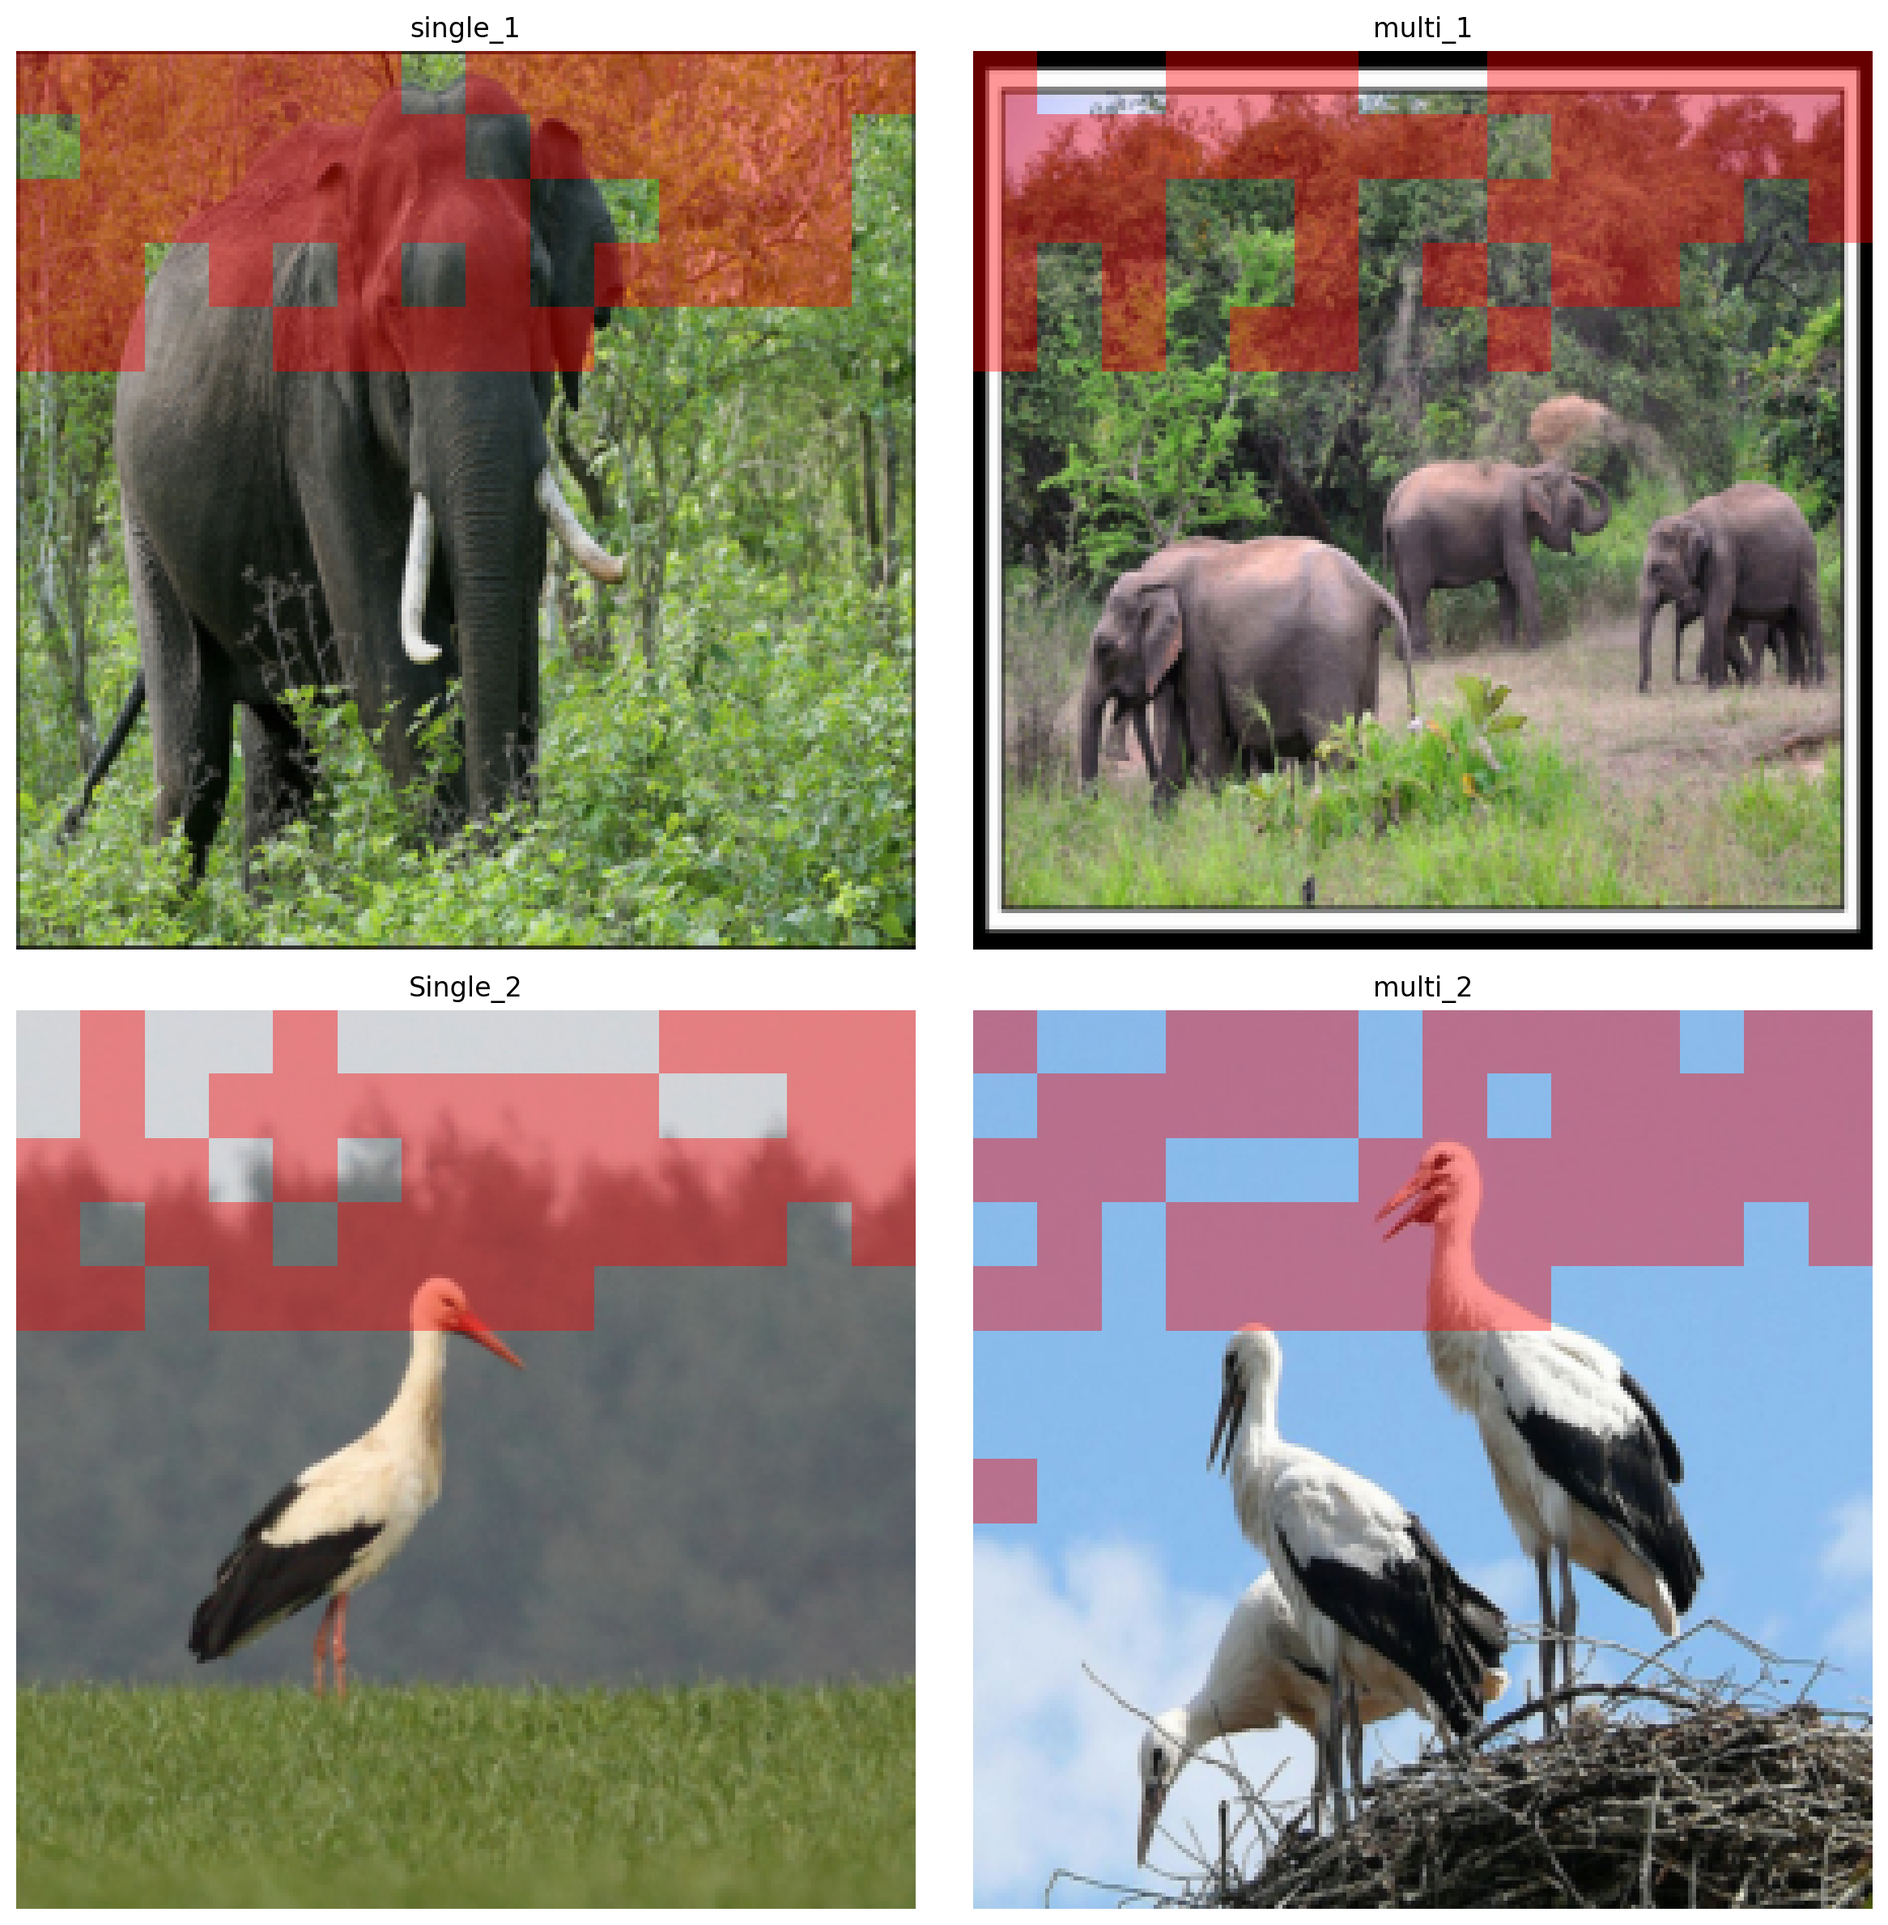
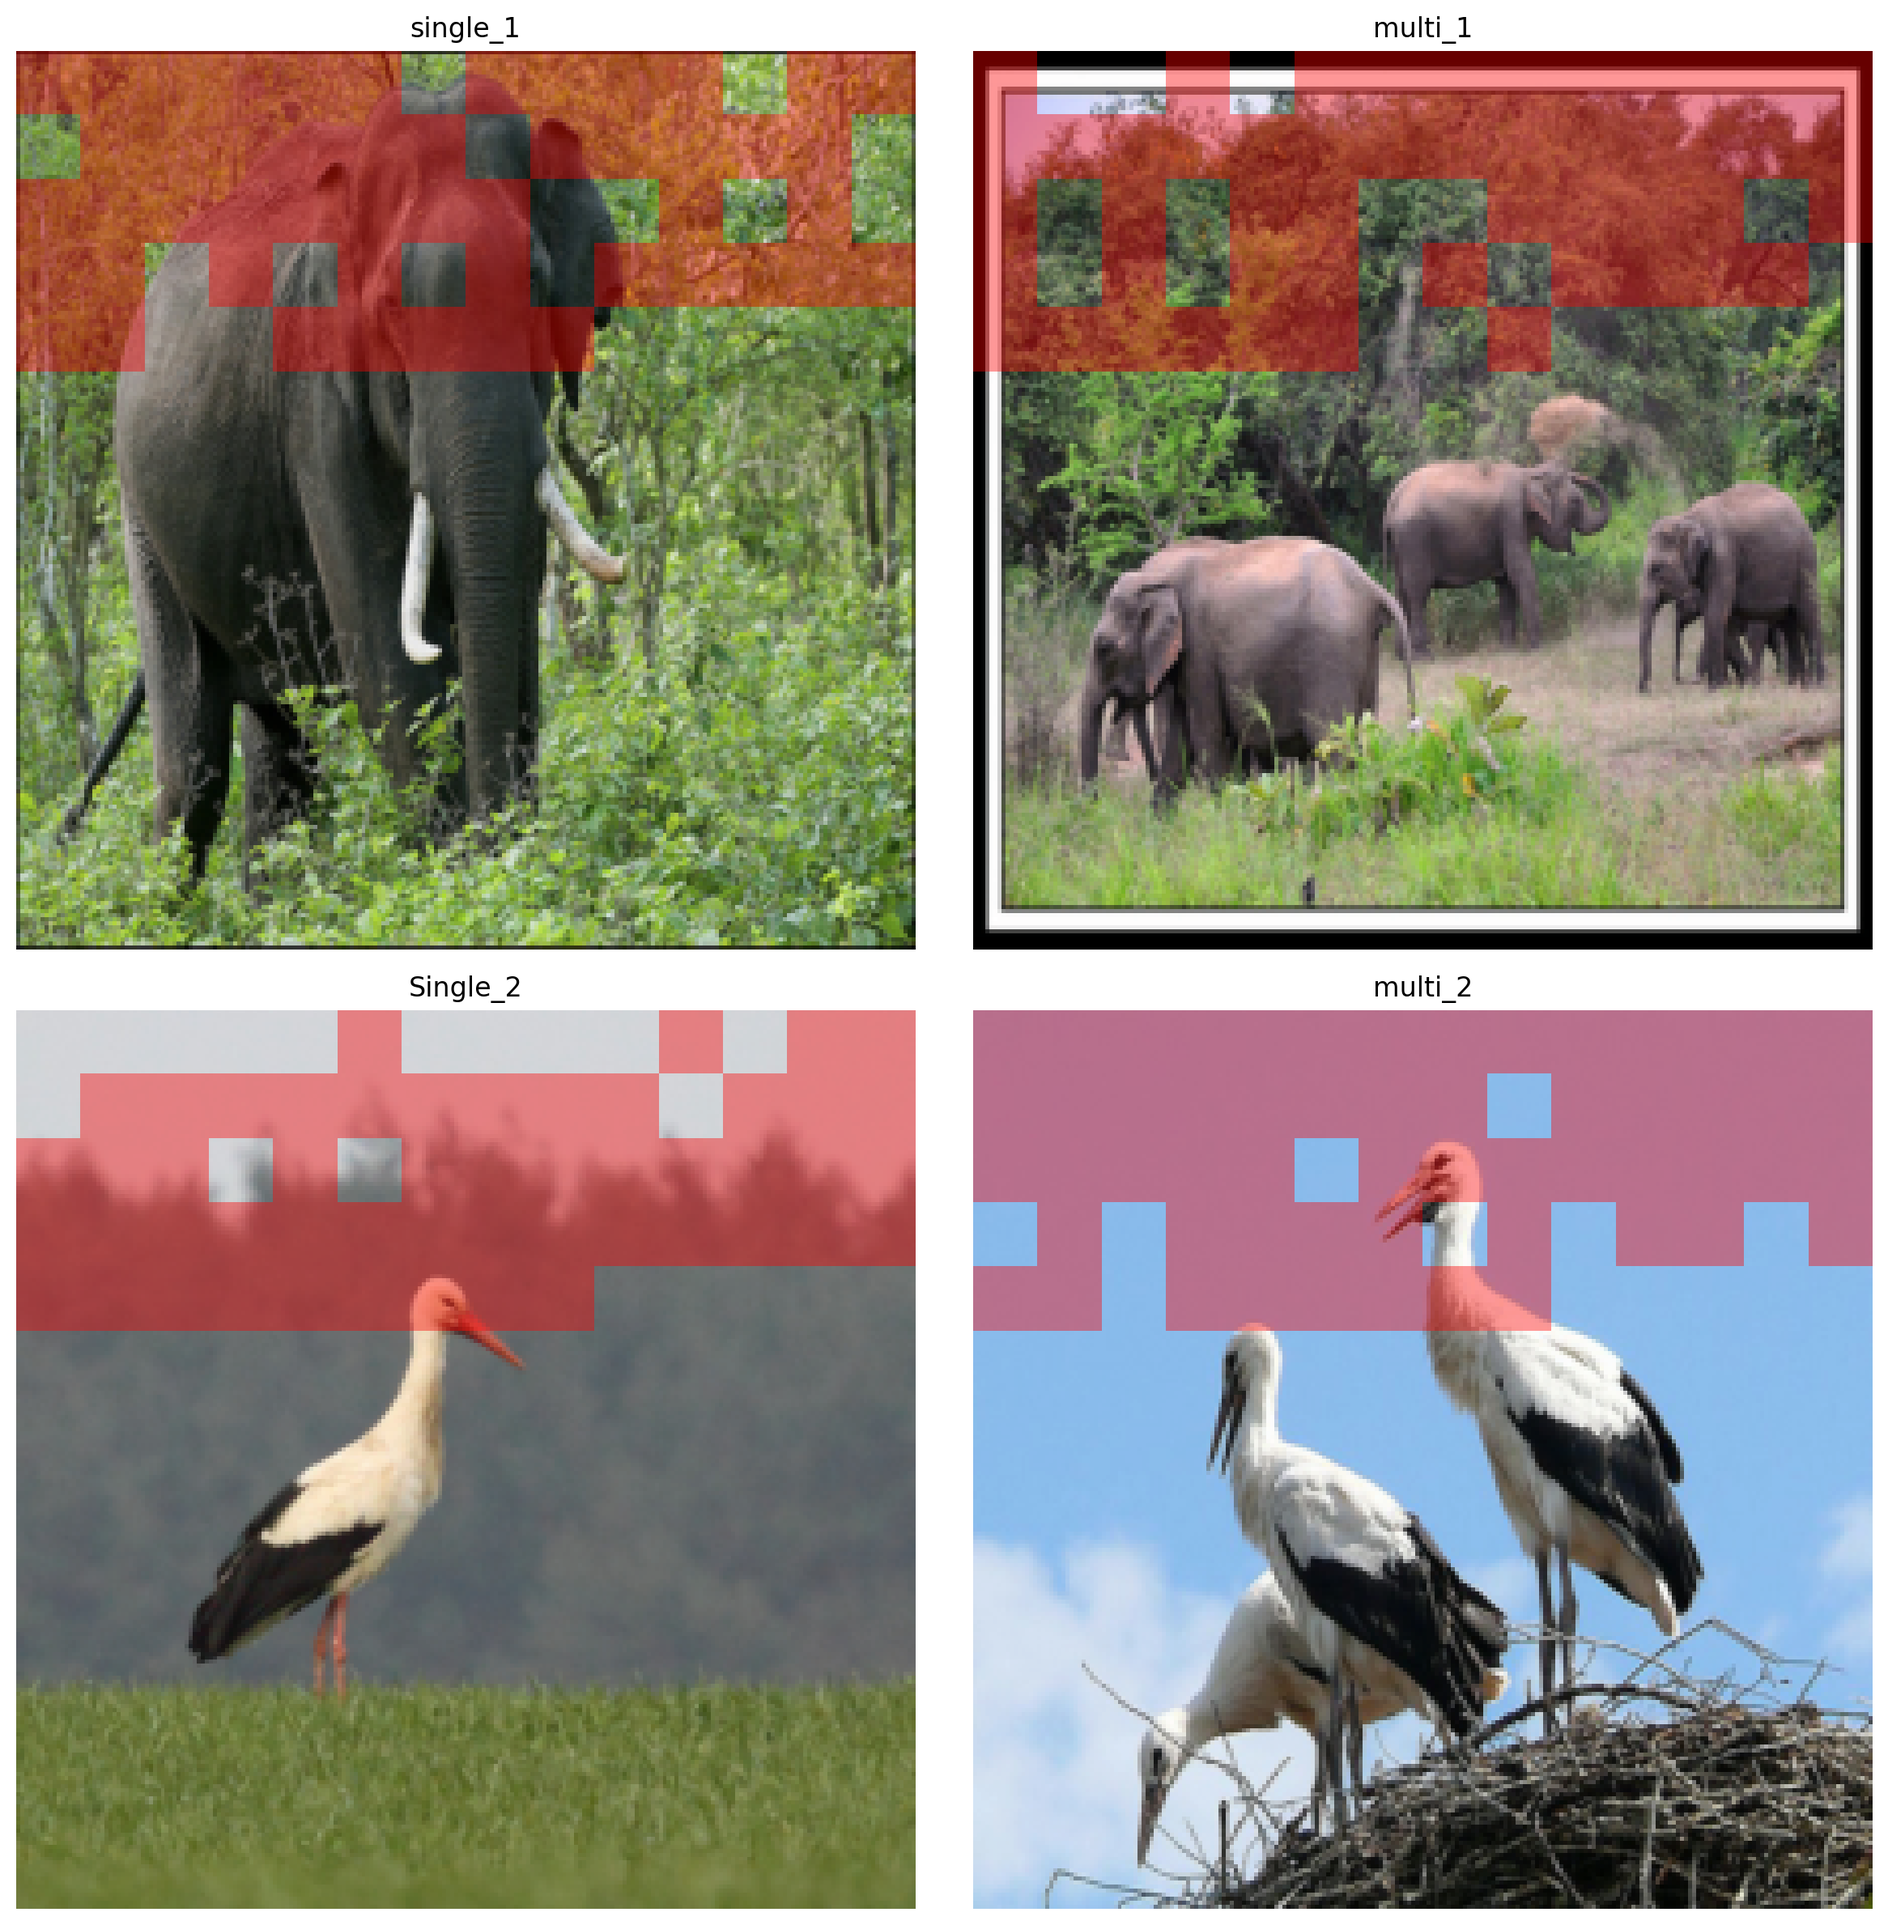
make sure the visualization boundaries are deterministic (bug-fixed)

diff --git a/src/imagenet_ckpt_qwen2.py b/src/imagenet_ckpt_qwen2.py
@@ -6,7 +6,7 @@ import numpy as np
 import matplotlib.pyplot as plt
 from PIL import Image
 import torchvision.transforms.functional as TF
-from open_clip_local.Qwen2VL_ViT import Qwen2VLVisionConfig, Qwen2VLDRIP
+from open_clip_local.Qwen2VL_ViT import Qwen2VLVisionConfig, Qwen2VLDRIP, Qwen2VLVisionBlock, apply_rotary_pos_emb_vision
 
 def load_img_norm(img_path, preprocess):
     """
@@ -144,7 +144,13 @@ def get_qwen2vldrip_hard_boundaries(model: Qwen2VLDRIP, img_3chw: torch.Tensor):
         hard_boundaries[:, indices] = 1
     else:
         x_transposed = reshaped_hidden_states.transpose(0, 1)  # [L, B, D]
-        _, hard_boundaries = model.boundary_predictor(x_transposed)  # [B, L]
+        """
+            NOTE: for visualization/inference, we stop sampling and apply deterministic thresholding
+        """
+        # _, hard_boundaries = model.boundary_predictor(x_transposed)  # [B, L]
+        boundary_logits = model.boundary_predictor.boundary_predictor(x_transposed).squeeze(-1).transpose(0, 1)   # [B, L]
+        boundary_probs = torch.sigmoid(boundary_logits)
+        hard_boundaries = (boundary_probs > model.boundary_predictor.threshold).float()
 
     return hard_boundaries[0].detach(), gh, gw
 
@@ -248,6 +254,191 @@ def visualize_boundaries_single_multi_qwen2vldrip(
         plt.close(fig)
 
 
+@torch.no_grad()
+def get_qwen2vldrip_layer4_attention_no_patch(
+    model: Qwen2VLDRIP,
+    img_3chw: torch.Tensor,
+):
+    """
+    Compute attention map from blocks_pre[3] without modifying model code.
+    Returns:
+        attn_map: [gh, gw] normalized patch heatmap
+        gh, gw
+    """
+    device = next(model.parameters()).device
+    x = img_3chw.unsqueeze(0).to(device)  # [1, 3, H, W]
+
+    B, _, H, W = x.shape
+    assert B == 1, "This helper currently assumes a single image."
+    gh = H // model.config.patch_size
+    gw = W // model.config.patch_size
+    L = gh * gw
+
+    grid_thw = x.new_empty((B, 3), dtype=torch.long)
+    grid_thw[:, 0] = 1
+    grid_thw[:, 1] = gh
+    grid_thw[:, 2] = gw
+
+    # patch embedding
+    hidden_states = model.patch_embed(x)  # [L, D]
+
+    # position embeddings
+    rotary_pos_emb = model.rot_pos_emb(grid_thw)
+    emb = torch.cat((rotary_pos_emb, rotary_pos_emb), dim=-1)
+    cos, sin = emb.cos(), emb.sin()
+    position_embeddings = (cos, sin)
+
+    cu_seqlens = torch.repeat_interleave(
+        grid_thw[:, 1] * grid_thw[:, 2], grid_thw[:, 0]
+    ).cumsum(dim=0, dtype=torch.int32)
+    cu_seqlens = F.pad(cu_seqlens, (1, 0), value=0)
+
+
+    """
+        we will run first 3 pre-blocks normally and manually compute attention of 4th block.
+    """
+    for blk in model.blocks_pre[:3]:
+        hidden_states = blk(
+            hidden_states,
+            cu_seqlens=cu_seqlens,
+            position_embeddings=position_embeddings,
+        )
+
+    blk4: Qwen2VLVisionBlock = model.blocks_pre[3]
+    normed: torch.Tensor = blk4.norm1(hidden_states)  # [L, D]
+    seq_length = normed.shape[0]
+    num_heads = blk4.attn.num_heads
+    head_dim = blk4.attn.head_dim
+    scaling = blk4.attn.scaling
+    qkv: torch.Tensor = blk4.attn.qkv(normed)  # [L, 3D]
+    query_states, key_states, value_states = (
+        qkv.reshape(seq_length, 3, num_heads, head_dim)
+        .permute(1, 0, 2, 3)
+        .unbind(0)
+    ) # q/k/v: [L, H, Hd]
+
+    query_states, key_states = apply_rotary_pos_emb_vision(
+        query_states, key_states, cos, sin
+    )
+
+    # [L, H, Hd] -> [H, L, Hd]
+    q = query_states.permute(1, 0, 2)
+    k = key_states.permute(1, 0, 2)
+    v = value_states.permute(1, 0, 2)
+
+    # attention
+    attn_scores = torch.matmul(q, k.transpose(-2, -1)) * scaling   # [H, L, L]
+    attn_probs = torch.softmax(attn_scores, dim=-1)                # [H, L, L]
+
+    # average over heads, then average over queries
+    attn_mean = attn_probs.mean(dim=0)      # [L, L]
+    token_score = attn_mean.mean(dim=0)     # [L]
+
+    attn_map = token_score.view(gh, gw).detach().cpu()
+    attn_map = attn_map - attn_map.min()
+    attn_map = attn_map / (attn_map.max() + 1e-8)
+
+    return attn_map.numpy(), gh, gw
+
+
+@torch.no_grad()
+def overlay_qwen2vldrip_attention_no_patch(
+    model: Qwen2VLDRIP,
+    img_3chw: torch.Tensor,
+    mean=(0.485, 0.456, 0.406),
+    std=(0.229, 0.224, 0.225),
+    alpha=0.45,
+):
+    """
+    Returns:
+      PIL.Image with layer-4 attention heatmap overlaid on the image.
+    """
+    attn_map, gh, gw = get_qwen2vldrip_layer4_attention_no_patch(model, img_3chw)
+
+    # unnormalize image for visualization
+    orig = unnormalize_img(img_3chw, mean=mean, std=std)
+    orig_img = TF.to_pil_image(orig).convert("RGB")
+    orig_np = np.array(orig_img).astype(np.float32) / 255.0
+
+    # resize patch attention map to image size
+    heatmap_img = Image.fromarray((attn_map * 255).astype(np.uint8)).resize(
+        (orig_np.shape[1], orig_np.shape[0]),
+        resample=Image.BILINEAR,
+    )
+    heatmap_np = np.array(heatmap_img).astype(np.float32) / 255.0
+
+    # colorize
+    cmap = plt.get_cmap("jet")
+    heat_rgb = cmap(heatmap_np)[..., :3]
+
+    overlay = (1 - alpha) * orig_np + alpha * heat_rgb
+    overlay = np.clip(overlay, 0.0, 1.0)
+
+    return Image.fromarray((overlay * 255).astype(np.uint8))
+
+
+@torch.no_grad()
+def visualize_attention_single_multi_qwen2vldrip(
+    model: Qwen2VLDRIP,
+    preprocess,
+    root_dir="/users/PAS2912/yusenpeng/Fast-CLIP/src/boundary_vis/image_samples/single_multi/",
+    save_path="/users/PAS2912/yusenpeng/Fast-CLIP/src/boundary_vis/single_multi_attention_overlay.png",
+    mean=(0.485, 0.456, 0.406),
+    std=(0.229, 0.224, 0.225),
+):
+    """
+    Reads:
+      single_1.JPEG, multi_1.JPEG, single_2.JPEG, multi_2.JPEG
+    and plots attention overlays in a separate 2x2 grid.
+    """
+    device = "cuda" if torch.cuda.is_available() else "cpu"
+    model = model.to(device).eval()
+
+    names = ["single_1", "multi_1", "single_2", "multi_2"]
+    paths = [os.path.join(root_dir, f"{n}.JPEG") for n in names]
+
+    tensors = []
+    for p in paths:
+        if not os.path.exists(p):
+            raise FileNotFoundError(f"Image not found: {p}")
+        tensors.append(load_img_norm(p, preprocess))
+
+    overlays = [
+        overlay_qwen2vldrip_attention_no_patch(model, t, mean=mean, std=std)
+        for t in tensors
+    ]
+
+    fig, axes = plt.subplots(2, 2, figsize=(12, 12))
+    axes = axes.flatten()
+
+    plot_titles = ["single_1", "multi_1", "single_2", "multi_2"]
+
+    for ax, ov, title in zip(axes, overlays, plot_titles):
+        ax.imshow(ov)
+        ax.set_title(f"{title} - attention @ layer 4")
+        ax.axis("off")
+
+    plt.tight_layout()
+
+    if save_path is not None:
+        save_dir = os.path.dirname(save_path)
+        if save_dir:
+            os.makedirs(save_dir, exist_ok=True)
+        plt.savefig(save_path, bbox_inches="tight", dpi=200)
+        print(f"Saved to {save_path}")
+        plt.close(fig)
+    else:
+        plt.show()
+        plt.close(fig)
+
+
+
+
+
+
+
+
+
 def main():
     ckpt_path = "/fs/scratch/PAS2836/yusenpeng_checkpoint/imagenet_QwenDRIP_4x/model_99.pth"
 
@@ -296,6 +487,14 @@ def main():
         root_dir="/users/PAS2912/yusenpeng/Fast-CLIP/src/boundary_vis/image_samples/single_multi/",
         save_path="/users/PAS2912/yusenpeng/Fast-CLIP/src/boundary_vis/single_multi_overlay.png",
     )
+
+    visualize_attention_single_multi_qwen2vldrip(
+        model,
+        preprocess,
+        root_dir="/users/PAS2912/yusenpeng/Fast-CLIP/src/boundary_vis/image_samples/single_multi/",
+        save_path="/users/PAS2912/yusenpeng/Fast-CLIP/src/boundary_vis/single_multi_attention_overlay.png"
+    )
+
 
 if __name__ == "__main__":
     main()

diff --git a/README.md b/README.md
@@ -35,17 +35,18 @@ torchrun --nproc_per_node=1 src/task1_newcodebase.py --model vit_b_16 --epochs 3
 sbatch scripts/task1/finetune_imagenet.sh
 ```
 
+### Boundary visualization (🍟🍟 updated 🍟🍟)
 
-### Boundary visualization (UPDATED)
+debugging with attention map analysis:
 
 ```bash
-salloc --nodes=1 --ntasks-per-node=1 --gpus-per-node=1 -A PAS2836 --time 0:20:00 --mem=64G
 module load miniconda3/24.1.2-py310
 conda deactivate
 conda activate DRIP
 cd src
-python python imagenet_ckpt.py
+python imagenet_ckpt_qwen2.py
 ```
+
 
 ### CLIP pretraining from scratch
 
